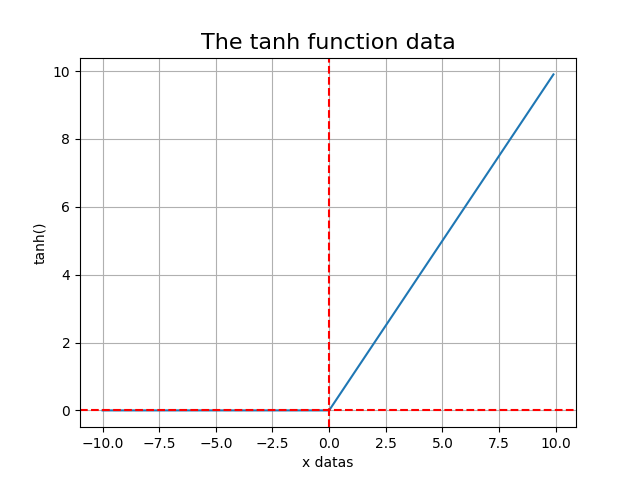
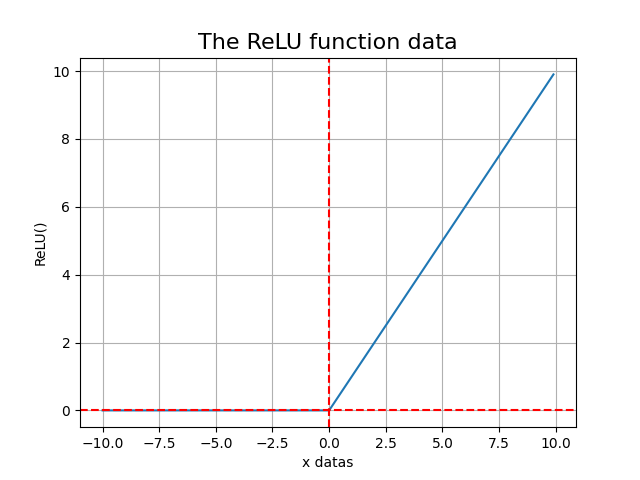
The activation of ReLU and lake ReLU

Changed region(s): [[0.3125, 0.0625, 0.7188, 0.125], [0.0312, 0.4688, 0.0938, 0.5625]]

diff --git a/deepinglearning/NeuralNetWorks/Activation/activation.py b/deepinglearning/NeuralNetWorks/Activation/activation.py
@@ -31,17 +31,32 @@ def tanh(x) :
 
 def ReLU(x) :
     w = 1
-    b = 1
+    b = 0
     z = w * x + b
-    act = np.maximum(x, 0)
+    act = np.maximum(z, 0)
     plt.plot(x, act)
-    plt.title("The tanh function data", fontsize=16)
+    plt.title("The ReLU function data", fontsize=16)
     plt.xlabel("x datas")
-    plt.ylabel("tanh()")
+    plt.ylabel("ReLU()")
     plt.grid()
     plt.axvline(x=0.0, ls='--', c='red')
     plt.axhline(y=0.0, ls='--', c='red')
     plt.savefig("ReLU.png")
+    plt.show()
+
+def lackReLU(x):
+    w = 1
+    b = 0
+    z = w * x + b
+    act = np.maximum(z, 0.01 * z)
+    plt.plot(x, act)
+    plt.title("The lackReLU function data", fontsize=16)
+    plt.xlabel("x datas")
+    plt.ylabel("lackReLU()")
+    plt.grid()
+    plt.axvline(x=0.0, ls='--', c='red')
+    plt.axhline(y=0.0, ls='--', c='red')
+    plt.savefig("lackReLU.png")
     plt.show()
 
 if __name__ == "__main__" :
@@ -50,3 +65,4 @@ if __name__ == "__main__" :
     # sigmoid(x_data)
     # tanh(x_data)
     # ReLU(x_data)
+    # lackReLU(x_data)
